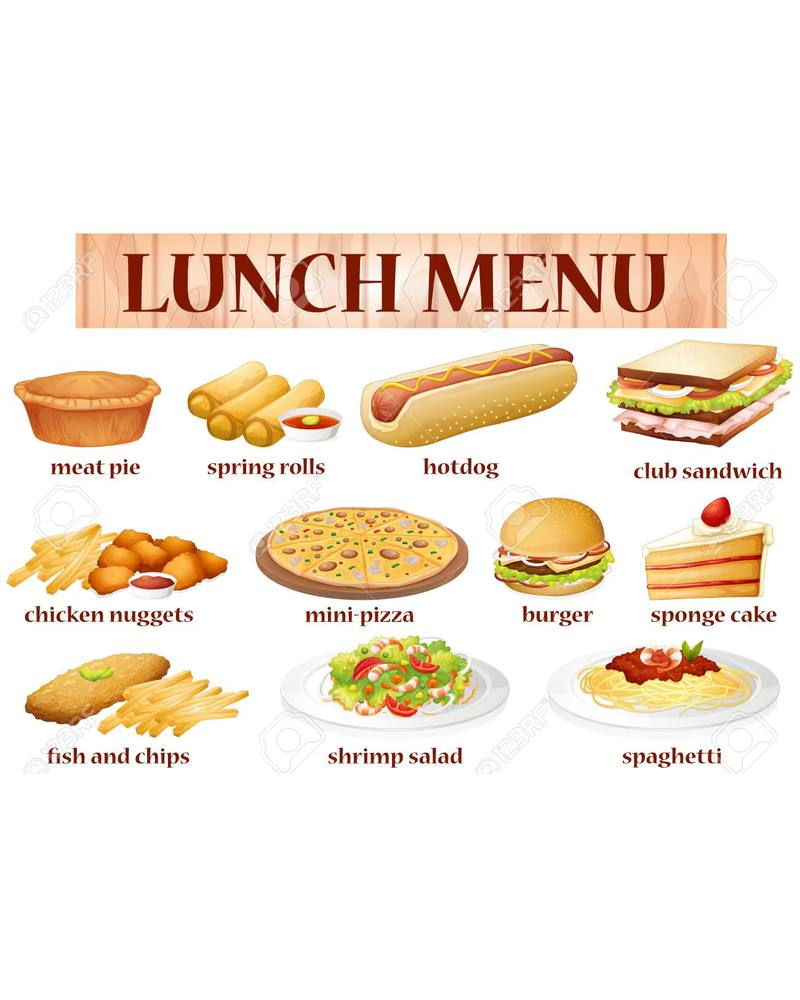
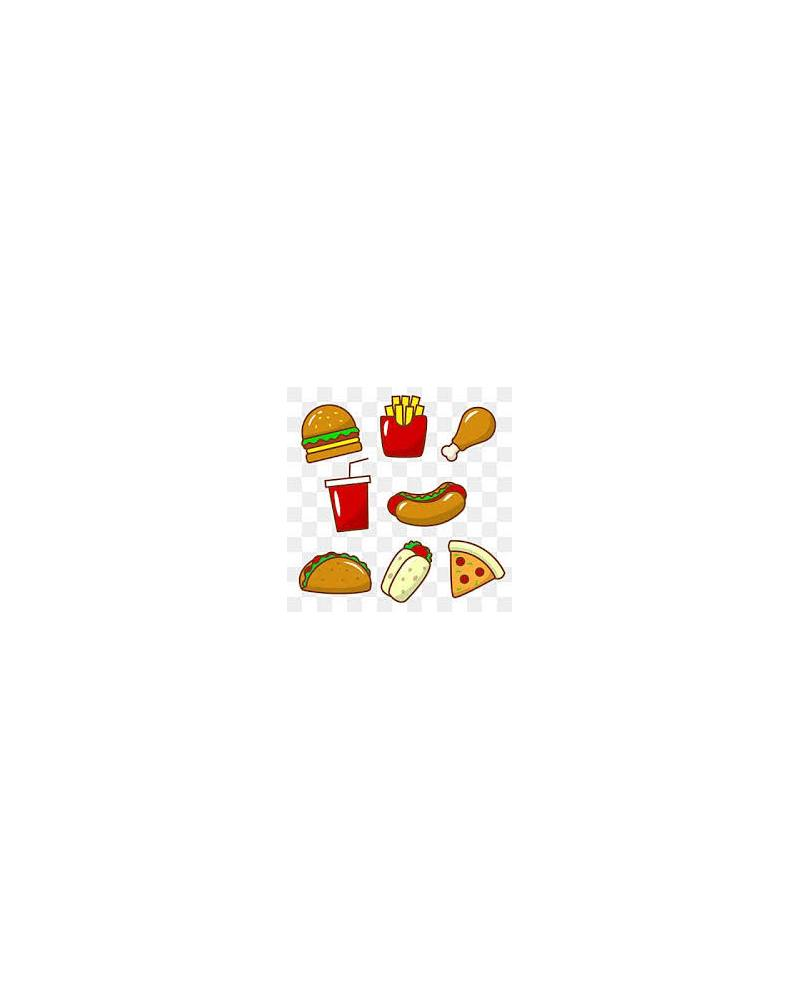
Add a border and top stripe to flipbook pages for a polished look
Apply a 5px gradient stripe and an inset box-shadow border to non-hard pages in the flipbook component.

Replit-Commit-Author: Agent
Replit-Commit-Session-Id: dc6d3d80-9c46-453d-ab13-b2490085037b
Replit-Commit-Checkpoint-Type: full_checkpoint
Replit-Commit-Event-Id: 25e74190-d68b-43e2-9a33-657d6d6ca071
Replit-Commit-Screenshot-Url: https://storage.googleapis.com/screenshot-production-us-central1/6f8edff5-d3f0-4e0e-af46-7d513f97eef8/dc6d3d80-9c46-453d-ab13-b2490085037b/NQUcrVL
Replit-Helium-Checkpoint-Created: true

Changed region(s): [[0.0, 0.217, 1.0, 0.775], [0.0, 0.527, 0.3125, 0.775]]

diff --git a/flask-app/static/css/style.css b/flask-app/static/css/style.css
@@ -466,6 +466,17 @@ nav {
 #flipbook .page {
   background: #fff;
   overflow: hidden;
+  box-shadow: inset 0 0 0 2px rgba(108,99,255,0.18);
+}
+
+#flipbook .page:not(.hard) .page-inner::before {
+  content: '';
+  position: absolute;
+  top: 0; left: 0; right: 0;
+  height: 5px;
+  background: linear-gradient(90deg, #6c63ff 0%, #f50057 55%, #ff6d00 100%);
+  z-index: 3;
+  pointer-events: none;
 }
 
 #flipbook .page img {